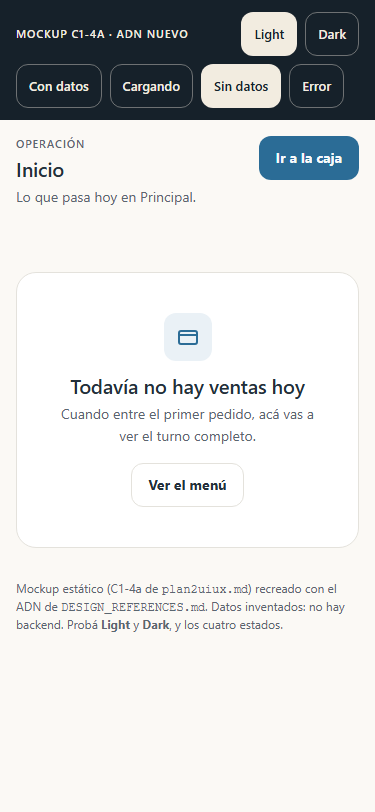
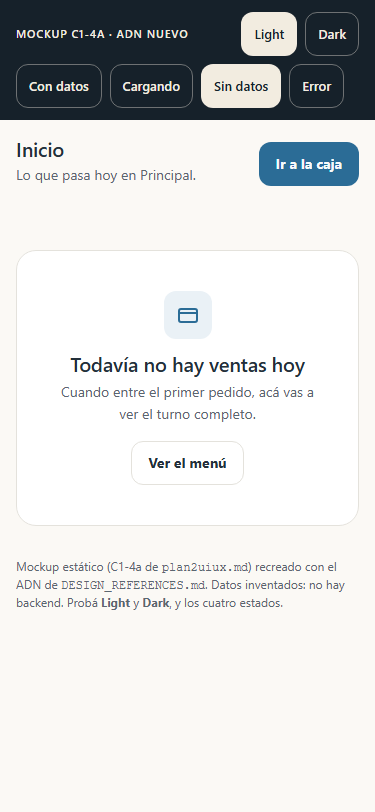
refactor(ui): el mockup pasa por el skill de diseno (C1-4a)
El owner pidio pasar el mockup por **Impeccable**. Su setup encontro que el repo
ya tiene `PRODUCT.md` con el registro correcto —**product**: dashboard/admin,
staff de pie con prisa— y sus dos anti-referencias textuales: "paneles de
operacion decorativos: metricas que nadie mira mientras hay pedidos esperando" y
"grillas saturadas de copy". El detector de senales del skill sobre el HTML dio
`[]`: ningun defecto mecanico. Asi que el trabajo fue de criterio, y se hizo sin
romper el ADN.

- **Fuera el eyebrow**: `OPERACIÓN` en 11 px uppercase arriba del h1 era el tell
  que el skill prohibe (kicker diminuto sobre cada seccion). El label del hero
  ahora etiqueta el numero ("Ventas de hoy" pegado a C$ 12.480), no la seccion.
- **La banda de KPIs dejo de ser 4 tarjetas identicas**: ahora es una sola
  superficie con divisores, se leen como una fila de datos del turno. Baja la
  cuenta a los 2 tipos de card que pide el ADN.
- **La card del turno dejo el gradiente** por un tinte de info plano: un
  gradiente decorativo en una superficie de datos es la anti-referencia textual
  del PRODUCT.md.
- **Dos bugs reales del sparkline**, visibles solo en el navegador: el trazo no
  llenaba su caja (`viewBox` sin `preserveAspectRatio: none`) y el
  `stroke-dasharray` estaba hardcodeado en 420, asi que la linea quedaba dibujada
  a medias. Ahora el largo se mide con `getTotalLength()` y se recalcula al
  redimensionar. Tambien se saco el `animation-fill-mode: both`, que congelaba el
[…]

diff --git a/ops/tasks/audit-ui/mockup-admin-inicio.html b/ops/tasks/audit-ui/mockup-admin-inicio.html
@@ -104,7 +104,8 @@
         font-size: 3.5rem;
         line-height: 3.75rem;
         font-weight: 700;
-        letter-spacing: -0.03em;
+        /* Techo del skill: nunca más apretado que -0.04em. En 56 px, -0.02 alcanza. */
+        letter-spacing: -0.02em;
         font-variant-numeric: tabular-nums;
       }
       .t-kpi {
@@ -182,20 +183,23 @@
         padding: 16px 16px 48px;
       }
 
+      /* Cabecera: el título y la acción. Sin eyebrow decorativo arriba del h1. */
       header.page {
         display: flex;
         flex-wrap: wrap;
         gap: 12px;
-        align-items: flex-start;
+        align-items: flex-end;
         justify-content: space-between;
         padding-bottom: var(--gap-section);
       }
       .page-title {
-        margin: 4px 0 0;
+        margin: 0;
+        text-wrap: balance;
       }
       .page-sub {
-        margin: 4px 0 0;
+        margin: 2px 0 0;
         color: var(--muted-foreground);
+        text-wrap: pretty;
       }
 
       .btn {
@@ -237,34 +241,39 @@
         padding: var(--pad-card);
       }
 
-      /* ── Card tipo B: la del turno, con el tinte de info (Patrón 2: solo 2 tipos de card) ── */
+      /* ── Card tipo B: la del turno, con tinte de info plano (Patrón 2: 2 tipos de card) ── */
       .card-turno {
-        background: linear-gradient(180deg, var(--info-soft), var(--card) 60%);
+        background: var(--info-soft);
         border: 1px solid var(--border);
         border-radius: var(--radius-panel);
         padding: var(--pad-card);
       }
 
-      /* ── Patrón 1: el hero domina, con su badge y su sparkline ── */
-      .hero {
+      /* ── Patrón 1: el hero domina. La etiqueta va al costado (no como eyebrow arriba) ── */
+      .turno-top {
         display: flex;
         flex-wrap: wrap;
         gap: 16px 32px;
         align-items: flex-end;
         justify-content: space-between;
       }
-      .hero-main {
-        min-width: 0;
+      .hero {
+        display: flex;
+        flex-wrap: wrap;
+        gap: 8px 16px;
+        align-items: baseline;
       }
-      .hero-value {
-        margin: 8px 0 0;
+      .turno-label {
+        color: var(--muted-foreground);
+      }
+      .hero-number {
         display: flex;
         flex-wrap: wrap;
         align-items: baseline;
         gap: 12px;
       }
-      .hero-meta {
-        margin: 8px 0 0;
+      .turno-meta {
+        margin: 6px 0 0;
         color: var(--muted-foreground);
       }
 
@@ -295,13 +304,35 @@
         background: var(--info-soft);
         color: var(--info-strong);
       }
+      /* Sobre la propia superficie de info, el badge de info necesita su borde para leerse. */
+      .card-turno .badge-info {
+        border: 1px solid var(--info-strong);
+      }
 
-      /* ── Patrón 7: sparkline ── */
+      /* ── Patrón 7: sparkline. El `preserveAspectRatio: none` + alto 100% hace que la línea
+             llene su caja: sin eso, el `viewBox` la deja dibujada en el tercio de arriba. ── */
       .sparkline {
-        flex: 0 0 auto;
+        flex: 1 1 220px;
         width: 100%;
-        max-width: 260px;
-        height: 64px;
+        max-width: 300px;
+        height: 72px;
+        align-self: stretch;
+      }
+      /* El largo del trazo lo mide el JS (`getTotalLength()`) y lo escribe como `strokeDasharray`;
+         acá solo se anima el offset y **sin** `fill-mode: both`: con `both`, si el JS re-mide
+         después, el estado inicial congelado deja la línea a medio dibujar. */
+      .sparkline polyline {
+        animation: draw 900ms cubic-bezier(0.22, 1, 0.36, 1);
+      }
+      @keyframes draw {
+        from {
+          stroke-dashoffset: var(--line-length, 420);
+        }
+      }
+      @media (prefers-reduced-motion: reduce) {
+        .sparkline polyline {
+          animation: none;
+        }
       }
 
       /* ── Patrón 3: íconos con fondo de color, 48×48, radio 12 ── */
@@ -335,11 +366,16 @@
         color: var(--danger-strong);
       }
 
-      /* ── Patrón 4: color con significado + Patrón 8: spacing ── */
+      /* ── Los KPIs van en UNA banda con divisores, no en 4 tarjetas iguales.
+             Registro product: densidad sin ruido; y evita la grilla de cards idénticas. ── */
       .kpis {
         display: grid;
         grid-template-columns: minmax(0, 1fr);
-        gap: var(--gap-item);
+        margin-top: var(--gap-section);
+        border: 1px solid var(--border);
+        border-radius: var(--radius-card);
+        background: var(--card);
+        overflow: hidden;
       }
       @media (min-width: 560px) {
         .kpis {
@@ -356,10 +392,39 @@
         align-items: center;
         gap: var(--gap-item);
         padding: 16px;
-        background: var(--card);
-        border: 1px solid var(--border);
-        border-radius: var(--radius-card);
         min-width: 0;
+        border-top: 1px solid var(--border);
+      }
+      .kpi-text {
+        display: flex;
+        flex-direction: column;
+        justify-content: flex-start; /* el valor sale siempre desde el mismo borde */
+        min-height: 48px; /* el alto del ícono: así los cuatro labels quedan a la misma altura */
+        min-width: 0;
+      }
+      .kpi:first-child {
+        border-top: 0;
+      }
+      @media (min-width: 560px) {
+        .kpi {
+          border-top: 0;
+          border-left: 1px solid var(--border);
+        }
+        .kpi:nth-child(2n + 1) {
+          border-left: 0;
+        }
+        .kpi:nth-child(n + 3) {
+          border-top: 1px solid var(--border);
+        }
+      }
+      @media (min-width: 900px) {
+        .kpi {
+          border-top: 0;
+          border-left: 1px solid var(--border);
+        }
+        .kpi:first-child {
+          border-left: 0;
+        }
       }
       .kpi-label {
         color: var(--muted-foreground);
@@ -408,6 +473,7 @@
       .row-title {
         display: block;
         font-weight: 600;
+        text-wrap: pretty;
       }
       .row-detail {
         display: block;
@@ -490,6 +556,22 @@
         margin: 0 auto 16px;
         max-width: 34ch;
         color: var(--muted-foreground);
+        text-wrap: pretty;
+      }
+      /* Los estados entran con un crossfade corto (150-250 ms y ease-out): cambiar de estado
+         es feedback, no coreografía. Con `prefers-reduced-motion` no hay transición. */
+      @keyframes state-in {
+        from {
+          opacity: 0;
+        }
+      }
+      .stack > [data-state]:not([hidden]) {
+        animation: state-in 180ms cubic-bezier(0.22, 1, 0.36, 1) both;
+      }
+      @media (prefers-reduced-motion: reduce) {
+        .stack > [data-state]:not([hidden]) {
+          animation: none;
+        }
       }
       .error-box {
         display: flex;
@@ -527,7 +609,6 @@
     <div class="shell">
       <header class="page">
         <div>
-          <p class="t-label muted" style="margin: 0">Operación</p>
           <h1 class="t-title page-title">Inicio</h1>
           <p class="t-body page-sub">Lo que pasa hoy en Principal.</p>
         </div>
@@ -545,17 +626,23 @@
           <!-- Card tipo B: el turno, con el tinte de info -->
           <section class="card-turno" aria-labelledby="turno-title">
             <h2 id="turno-title" class="sr-only">Turno de hoy</h2>
-            <div class="hero">
-              <div class="hero-main">
-                <p class="t-label muted" style="margin: 0">Ventas de hoy</p>
-                <div class="hero-value">
+            <div class="turno-top">
+              <div>
+                <p class="t-label turno-label" style="margin: 0">Ventas de hoy</p>
+                <div class="hero">
                   <span class="t-hero">C$ 12.480</span>
                   <span class="badge badge-success">↑ 18 % vs. ayer</span>
                 </div>
-                <p class="t-body hero-meta">36 pedidos · promedio C$ 347</p>
+                <p class="t-body turno-meta">36 pedidos · promedio C$ 347</p>
               </div>
               <!-- Patrón 7: la serie del día, sin ejes ni decoración -->
-              <svg class="sparkline" viewBox="0 0 260 64" role="img" aria-label="Ventas de hoy por hora">
+              <svg
+                class="sparkline"
+                viewBox="0 0 260 64"
+                preserveAspectRatio="none"
+                role="img"
+                aria-label="Ventas de hoy por hora"
+              >
                 <polyline
                   fill="none"
                   stroke="var(--brand)"
@@ -567,8 +654,8 @@
               </svg>
             </div>
 
-            <!-- Patrón 3 + 4: cada KPI con su ícono de color y su número en 32 -->
-            <div class="kpis" style="margin-top: var(--gap-section)">
+            <!-- Patrón 3 + 4: la banda de KPIs, cada uno con su ícono de color y su número en 32 -->
+            <div class="kpis">
               <div class="kpi">
                 <span class="icon-box icon-warning" aria-hidden="true">
                   <svg viewBox="0 0 24 24" fill="none" stroke="currentColor" stroke-width="2" stroke-linecap="round">
@@ -576,7 +663,7 @@
                     <path d="M12 7v5l3 2" />
                   </svg>
                 </span>
-                <div>
+                <div class="kpi-text">
                   <p class="t-label kpi-label" style="margin: 0">En cocina</p>
                   <p class="t-kpi kpi-value">4</p>
                 </div>
@@ -588,7 +675,7 @@
                     <path d="M4 6h16M4 12h16M4 18h10" />
                   </svg>
                 </span>
-                <div>
+                <div class="kpi-text">
                   <p class="t-label kpi-label" style="margin: 0">Por aceptar</p>
                   <p class="t-kpi kpi-value">2</p>
                 </div>
@@ -600,7 +687,7 @@
                     <path d="M20 7l-11 11-5-5" />
                   </svg>
                 </span>
-                <div>
+                <div class="kpi-text">
                   <p class="t-label kpi-label" style="margin: 0">Listas</p>
                   <p class="t-kpi kpi-value">3</p>
                 </div>
@@ -613,7 +700,7 @@
                     <path d="M3 10h18" />
                   </svg>
                 </span>
-                <div>
+                <div class="kpi-text">
                   <p class="t-label kpi-label" style="margin: 0">Caja</p>
                   <p class="t-kpi kpi-value">Abierta</p>
                 </div>
@@ -774,6 +861,31 @@
       for (const button of stateButtons) {
         button.addEventListener("click", () => setState(button.dataset.state));
       }
+
+      /**
+       * El trazo del sparkline se dibuja al entrar. El largo del recorrido se **mide**
+       * (`getTotalLength()`) en vez de escribir un número fijo: con `preserveAspectRatio: none` el
+       * trazo se estira con la caja y un `stroke-dasharray` hardcodeado deja la línea a medio
+       * dibujar. Se recalcula al cambiar el tamaño de la ventana.
+       */
+      const sparklines = [...document.querySelectorAll(".sparkline polyline")];
+
+      function measureSparklines() {
+        for (const line of sparklines) {
+          const length = Math.ceil(line.getTotalLength());
+          line.style.strokeDasharray = `${length}`;
+          line.style.setProperty("--line-length", `${length}`);
+          // Reinicia la animación para que se vuelva a dibujar con el largo nuevo. Se limpia con
+          // `requestAnimationFrame` para que el navegador registre el reinicio.
+          line.style.animation = "none";
+          requestAnimationFrame(() => {
+            line.style.animation = "";
+          });
+        }
+      }
+
+      measureSparklines();
+      window.addEventListener("resize", measureSparklines);
     </script>
   </body>
 </html>

diff --git a/ops/project-state.md b/ops/project-state.md
@@ -2515,6 +2515,46 @@ su §7 completa:
 375 px la palabra "Abierta" no entraba en 32 px, así que la grilla de KPIs pasa a 1 / 2 / 4 columnas
 (560 y 900 px) y el número del KPI se mantiene en 32 px.
 
+### El mockup, mejorado con el skill de diseño (2026-09-15)
+
+El owner pidió pasar el mockup por el skill **Impeccable**. Su setup encontró que el repo **ya tiene
+`PRODUCT.md`** con el registro correcto —**product**: dashboard/admin, staff de pie con prisa— y sus
+dos anti-referencias textuales: *"paneles de operación decorativos: métricas que nadie mira mientras
+hay pedidos esperando"* y *"grillas saturadas de copy"*. Eso dio el criterio para mejorarlo **sin
+romper el ADN**. El detector de señales del skill sobre el HTML dio `[]` (ningún defecto mecánico).
+
+**Lo que se cambió, y por qué:**
+
+1. **Fuera el eyebrow.** El `OPERACIÓN` en 11 px uppercase arriba del `h1` era exactamente el tell que
+   el skill prohíbe (kicker diminuto con tracking ancho sobre cada sección). El label del hero se movió
+   **a etiquetar el número** ("Ventas de hoy" pegado a `C$ 12.480`, no como adorno de sección).
+2. **La banda de KPIs dejó de ser 4 tarjetas idénticas.** Cuatro cards iguales con ícono + label +
+   número es el patrón que el registro product marca como ruido. Ahora es **una sola superficie con
+   divisores**: se leen como una fila de datos del turno, no como cuatro widgets. Además baja la cuenta
+   de tarjetas a **2 tipos** (la del turno con tinte de info y las neutras), que es lo que pide el ADN.
+3. **La card del turno dejó el gradiente** por un tinte de info plano: un gradiente decorativo en una
+   superficie de datos es justo lo que la anti-referencia del `PRODUCT.md` señala.
+4. **El sparkline ahora se dibuja completo.** Tenía dos bugs reales que solo se ven en el navegador: el
+   trazo no llenaba la caja (`viewBox` sin `preserveAspectRatio: none`) y el `stroke-dasharray` estaba
+   **hardcodeado en 420**, así que la línea quedaba dibujada a medias. Ahora el largo se **mide** con
+   `getTotalLength()` y se recalcula al redimensionar.
+5. **Movimiento con propósito, no coreografía.** El trazo del sparkline se dibuja en 900 ms con curva
+   exponencial y los cambios de estado entran con un crossfade de 180 ms. Los dos tienen su
+   `prefers-reduced-motion` alternativo.
+6. **Tipografía**: `text-wrap: balance` en el título, `pretty` en los párrafos, y el tracking del hero
+   bajó de `-0.03em` a `-0.02em` (el skill pone el piso en `-0.04em`; en 56 px no hace falta apretar más).
+
+**Tres fricciones entre el ADN y el registro product, resueltas a favor del ADN** (es pedido explícito
+del owner y `DESIGN_REFERENCES.md` gana sobre los skills): el registro recomienda **una sola familia**
+en UI y el ADN pide Fraunces para los números (se mantiene: son datos, no labels ni botones); el
+registro pide un **ratio tipográfico 1.125-1.2** y el ADN usa 1.43-1.75; y "número grande + label chico"
+es un patrón que el skill marca como cliché de SaaS, mientras el ADN lo pide como **Patrón 1**. Las tres
+quedan anotadas acá para que no se "corrijan" por error en una oleada futura.
+
+**Medido después de los cambios**: contraste real de las etiquetas chicas contra **su propio** fondo
+(no contra el del body): label de KPI **5.87:1**, label del turno **5.14:1**, detalle de fila **5.87:1**,
+metadato **5.58:1**. Sigue en 32 px exactos entre secciones y sin scroll horizontal en los dos anchos.
+
 **C1-4b NO se arranca hasta que el owner valide el mockup.** Al aprobarse, la implementación reemplaza
 `admin-overview-client.tsx` (615 líneas) respetando el techo congelado de ese archivo.
 
